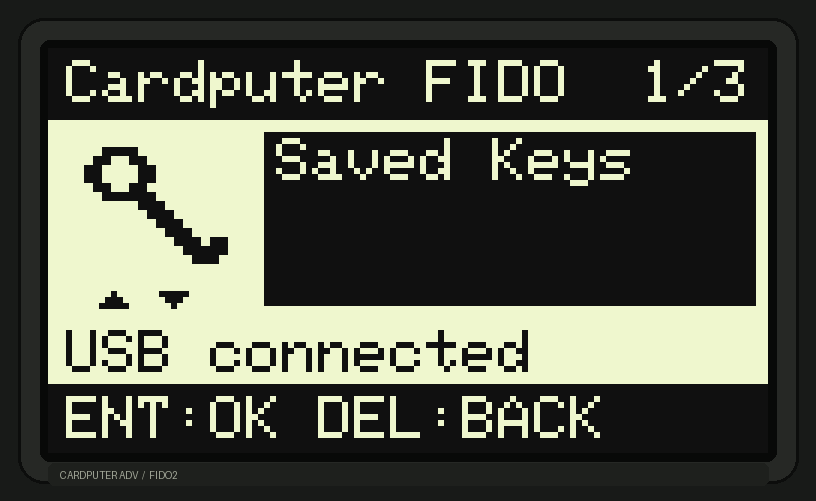
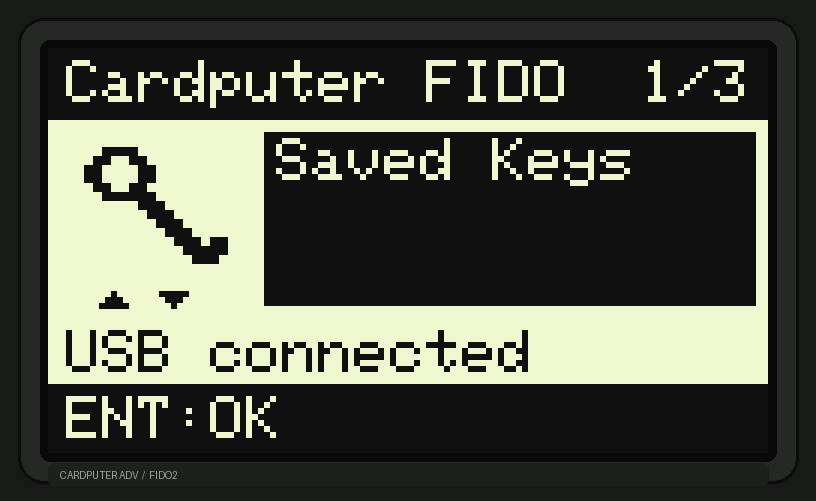
fix(ui): drop the non-functional back hint from the main menu
The main menu does not handle Del, so show only ENT:OK there. Keep
DEL:BACK on Settings, where it works. Refresh the interface preview.

Tests: native 8/8.

Changed region(s): [[0.5515, 0.7784, 0.7353, 0.8982], [0.3676, 0.7784, 0.5208, 0.8982]]

diff --git a/src/cardputer/model.cpp b/src/cardputer/model.cpp
@@ -5,7 +5,7 @@
 namespace cardputer {
 namespace {
 const char* const kMainItems[3] = {"Saved Keys", "Settings", "Power Off"};
-const char* const kMainFooter = "ENT:OK DEL:BACK";
+const char* const kMainFooter = "ENT:OK";
 const char* const kRequestFooter = "ENT:YES DEL:NO";
 const char* const kEditFooter = "ENT:SAVE DEL:BACK";
 constexpr int kMainCount = 3;
@@ -434,7 +434,7 @@ Snapshot Model::view() const {
             out.rows[0].icon = Icon::Volume;
             out.rows[1].icon = Icon::Sun;
             out.rows[2].icon = Icon::Clock;
-            out.footer = kMainFooter;
+            out.footer = "ENT:OK DEL:BACK";
             break;
         case Screen::SettingsEdit: {
             out.layout = Layout::Editor;
